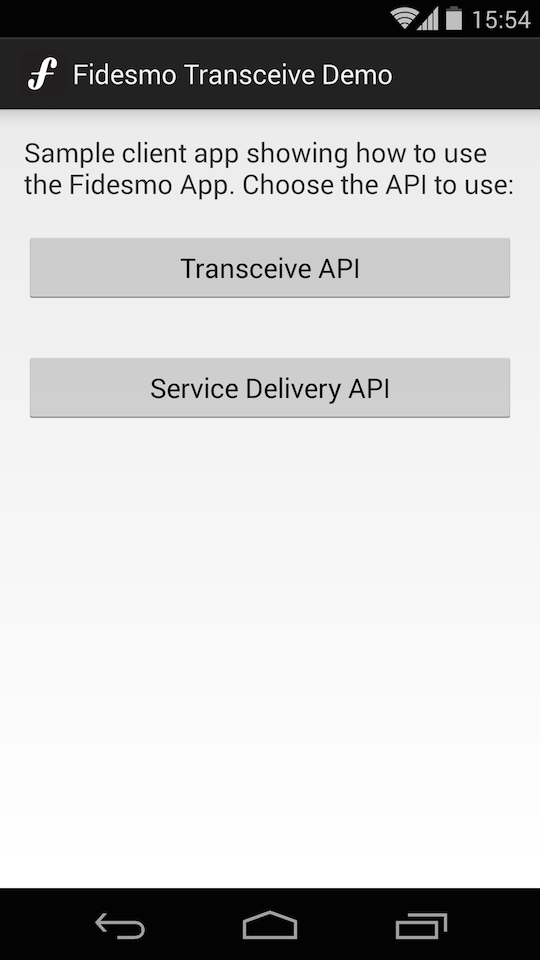
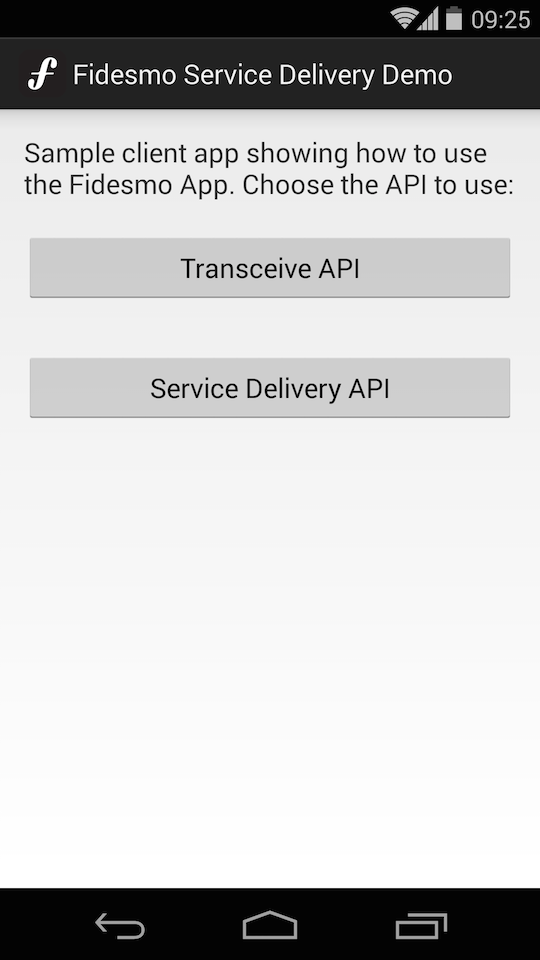
Rename app to Android Service Delivery Demo

Changed region(s): [[0.3259, 0.0625, 0.8593, 0.0938], [0.8593, 0.0, 0.9778, 0.0312]]

diff --git a/src/main/java/com/fidesmo/sec/servicedeliverydemo/ServiceDeliveryActivity.java b/src/main/java/com/fidesmo/sec/servicedeliverydemo/ServiceDeliveryActivity.java
@@ -1,5 +1,5 @@
 
-package com.fidesmo.sec.transceivedemo;
+package com.fidesmo.sec.servicedeliverydemo;
 
 import android.app.Activity;
 import android.content.Context;

diff --git a/src/main/java/com/fidesmo/sec/servicedeliverydemo/MainActivity.java b/src/main/java/com/fidesmo/sec/servicedeliverydemo/MainActivity.java
@@ -1,5 +1,5 @@
 
-package com.fidesmo.sec.transceivedemo;
+package com.fidesmo.sec.servicedeliverydemo;
 
 import android.app.Activity;
 import android.content.Intent;

diff --git a/src/main/java/com/fidesmo/sec/servicedeliverydemo/TransceiveActivity.java b/src/main/java/com/fidesmo/sec/servicedeliverydemo/TransceiveActivity.java
@@ -1,5 +1,5 @@
 
-package com.fidesmo.sec.transceivedemo;
+package com.fidesmo.sec.servicedeliverydemo;
 
 import java.util.UUID;
 

diff --git a/README.md b/README.md
@@ -25,7 +25,7 @@ Build instructions: command line
 ------------------
 - Clone this repository
 - In the project's root directory, type ``./gradlew build``
-- To install the app into a connected phone or an emulator, type ``./gradlew installDebug`` or ``adb install build/apk/android-transceive-demo-debug-unaligned.apk`` 
+- To install the app into a connected phone or an emulator, type ``./gradlew installDebug`` or ``adb install build/apk/android-service-delivery-demo-debug-unaligned.apk``
 
 Build instructions: Android Studio IDE
 ------------------
